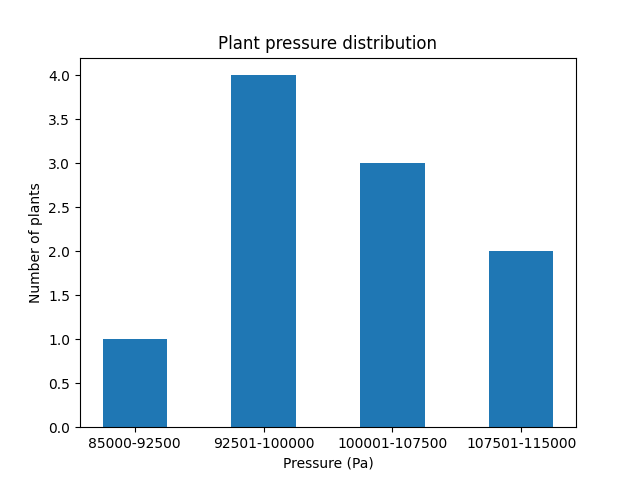
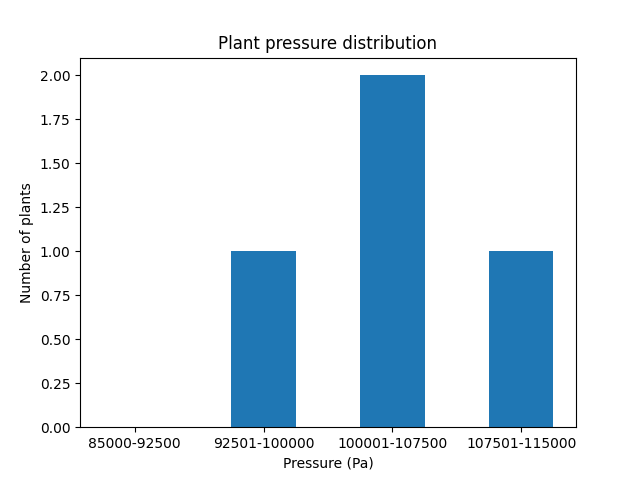
Python listener

diff --git a/PyScripts/graph_gen.py b/PyScripts/graph_gen.py
@@ -22,6 +22,8 @@ client = MongoClient(uri, server_api=ServerApi('1'))
 db = client["SyncUserData"]
 
 demo_db = client["loginGarden"]
+
+
 # Combine all data into one single dataframe
 def concat_all_data():
 
@@ -42,7 +44,7 @@ def concat_all_data():
 def overview_data(user):
 
     demo_data = demo_db["accounts"]
-    query = {"username": "chris"}
+    query = {"username": user}
     demo_plants = demo_data.find_one(query)["plantList"]
     demo_df = pd.DataFrame(demo_plants)
 
@@ -53,7 +55,7 @@ def overview_data(user):
     moist_list = ["0-25%", "26-50%", "51-75%", "76-100%"]
     temp_list = ['0-10', '11-20', '21-30', '31-40']
     pressure_list = ['85000-92500', '92501-100000', '100001-107500', '107501-115000']
-    status_list = ["Healthy", "In Danger", "Dead"]
+    status_list = "Healthy", "In Danger", "Dead"
 
     demo_df['moisture_percentile'] = pd.cut(demo_df['moisturePercentage'], [0,25,50,75,100], labels=moist_list)
     demo_df['temp_percentile'] = pd.cut(demo_df['temperatureCelsius'], [0,10,20,30,40], labels=temp_list)
@@ -63,6 +65,8 @@ def overview_data(user):
 
 
     status_dict =      {'Healthy': 0, 'In Danger': 0, 'Dead': 0}                                    | demo_df['status'].value_counts().to_dict()
+    status_keys = [key for key,value in status_dict.items() if value!=0]
+    status_values = [value for value in status_dict.values() if value!=0]
     moist_dict =       {"0-25%": 0, "26-50%": 0, "51-75%": 0, "76-100%":0}                          | demo_df['moisture_percentile'].value_counts().to_dict()
     temp_dict =        {"0-10": 0, "11-20": 0, "21-30": 0, "31-40":0}                               | demo_df['temp_percentile'].value_counts().to_dict()
     pressure_dict =    {"85000-92500": 0, "92501-100000": 0, "100001-107500": 0, "107501-115000":0} | demo_df['pressure_percentile'].value_counts().to_dict()
@@ -70,14 +74,12 @@ def overview_data(user):
     #Bar chart for plant status
     fig, ax = plt.subplots()
     #ax.bar(status_list, list(status_dict.values()), color=bar_colors, width=0.5)
-    ax.pie(demo_df['status'].value_counts(), labels=status_list, colors = bar_colors, autopct='%1.1f%%')
+    ax.pie(status_values, labels=status_keys, colors = bar_colors, autopct='%1.1f%%')
     plt.title("Plant status distribution")
     #plt.xlabel('Status')
     #plt.ylabel('Number of plants')
-    plt.savefig('PyScripts\Graphs\\pieStatus.png')
+    plt.savefig("pieStatus.png")
     plt.close()
-    print("done")
-
     
     #Bar chart for plant moisture
     fig, ax = plt.subplots()
@@ -85,9 +87,8 @@ def overview_data(user):
     plt.title("Plant moisture level distribution")
     plt.xlabel('Moisture level')
     plt.ylabel('Number of plants')
-    plt.savefig('PyScripts\Graphs\\barMoist.png')
+    plt.savefig("Graphs\BarMoist.png")
     plt.close()
-    print("done")
     
 
     #Bar chart for plant temp
@@ -96,10 +97,8 @@ def overview_data(user):
     plt.title("Plant temperature distribution")
     plt.xlabel('Temperature degree (C)')
     plt.ylabel('Number of plants')
-    plt.savefig('PyScripts\Graphs\\barTemp.png')
+    plt.savefig("Graphs\BarTemp.png")
     plt.close()
-    print("done")
-
     
     #Bar chart for plant pressure
     fig, ax = plt.subplots()
@@ -107,19 +106,16 @@ def overview_data(user):
     plt.title("Plant pressure distribution")
     plt.xlabel('Pressure (Pa)')
     plt.ylabel('Number of plants')
-    plt.savefig('PyScripts\Graphs\\barPressure.png')
+    plt.savefig("Graphs\BarPressure.png")
     plt.close()
-    print("done")
-
     
     #Pie chart for plant type distribution
     fig, ax = plt.subplots()
-    ax.pie(mongo_df['Plant Type'].value_counts(), labels=mongo_df['Plant Type'].unique(), autopct='%1.1f%%')
+    ax.pie(demo_df['plantType'].value_counts(), labels=demo_df['plantType'].unique(), autopct='%1.1f%%')
     plt.title("Plant type distribution")
-    plt.savefig('PyScripts\Graphs\pieType.png')
+    plt.savefig("Graphs\pieType.png")
     plt.close()
-    print("done")
-    
+    print("Overview graphs generated")
 
 # Generates graphs for specific plant data
 def specific_data(data):
@@ -173,5 +169,3 @@ def specific_data(data):
         plt.savefig('PyScripts\Graphs\linePressure_'+filename.group()+'.png')
         plt.close()
 
-#specific_data(concat_all_data())
-overview_data('User1')

diff --git a/PyScripts/main.py b/PyScripts/main.py
@@ -2,14 +2,10 @@ import graph_gen as gen
 import analyze as al
 import image_transfer as img_t
 
-
 from bson.json_util import dumps
 from urllib.parse import quote_plus
 from pymongo.mongo_client import MongoClient
 from pymongo.server_api import ServerApi
-
-
-
 
 
 #Single entry point for all functions related to graph generation and transfer
@@ -37,6 +33,8 @@ password_escaped = quote_plus(password)
 
 uri = f"mongodb+srv://{username_escaped}:{password_escaped}@cluster0.g9kdlqh.mongodb.net/?retryWrites=true&w=majority"
 
+
+#Manual mode
 """
 arguments = sys.argv[1:]
 
@@ -81,22 +79,29 @@ else:
 """
 
     
-
+#Listening mode
 client = MongoClient(uri, server_api=ServerApi('1'))
-db = client["SyncUserData"]
+db = client["loginGarden"]
+coll = db["accounts"]
 
-stream = db.watch()
+stream = coll.watch()
 
-print("Listening to changes")
+print("Listening to changes...")
 for change in stream:
-    user = change['ns']['coll']
-    print("Changes in: "+user)
-    print("Generating overview graphs for: "+user)
-    gen.overview_data(user)
+    id = change['documentKey']['_id']
+    acc = coll.find_one( {"_id": id})
+    test_user = acc['username']
+    #user = change['ns']['coll']
+    print("Changes in: "+test_user)
+    print("Generating overview graphs for: "+test_user)
+    gen.overview_data(test_user)
     print("Transferring all graphs")
     img_t.transfer_all()
-    print("Generating report")
-    al.gen_report(user)
-    print("Uploading report")
-    al.upload_report(user)
+
+    #print("Generating report")
+    #al.gen_report(user)
+    #print("Uploading report")
+    #al.upload_report(user)
+
     print("Finished")
+    print("Listening to changes...")

diff --git a/PyScripts/image_transfer.py b/PyScripts/image_transfer.py
@@ -49,7 +49,7 @@ def transfer_one(filename):
 
 #Transfer all files
 def transfer_all():
-    graph_dir_path = 'PyScripts\\Graphs'
+    graph_dir_path = "Graphs"
     graph_list = []
 
     for file_path in os.listdir(graph_dir_path):
@@ -61,8 +61,8 @@ def transfer_all():
 
     for x in graph_list:
         store_file(x)
-        full_path = os.path.join(graph_dir_path, x)
-        delete_file(full_path)
+        #full_path = os.path.join(graph_dir_path, x)
+        #delete_file(full_path)
 
 #Download all files from database
 def download_all():
@@ -72,5 +72,3 @@ def download_all():
 
 def delete_file(file_path):
     os.remove(file_path)
-
-
